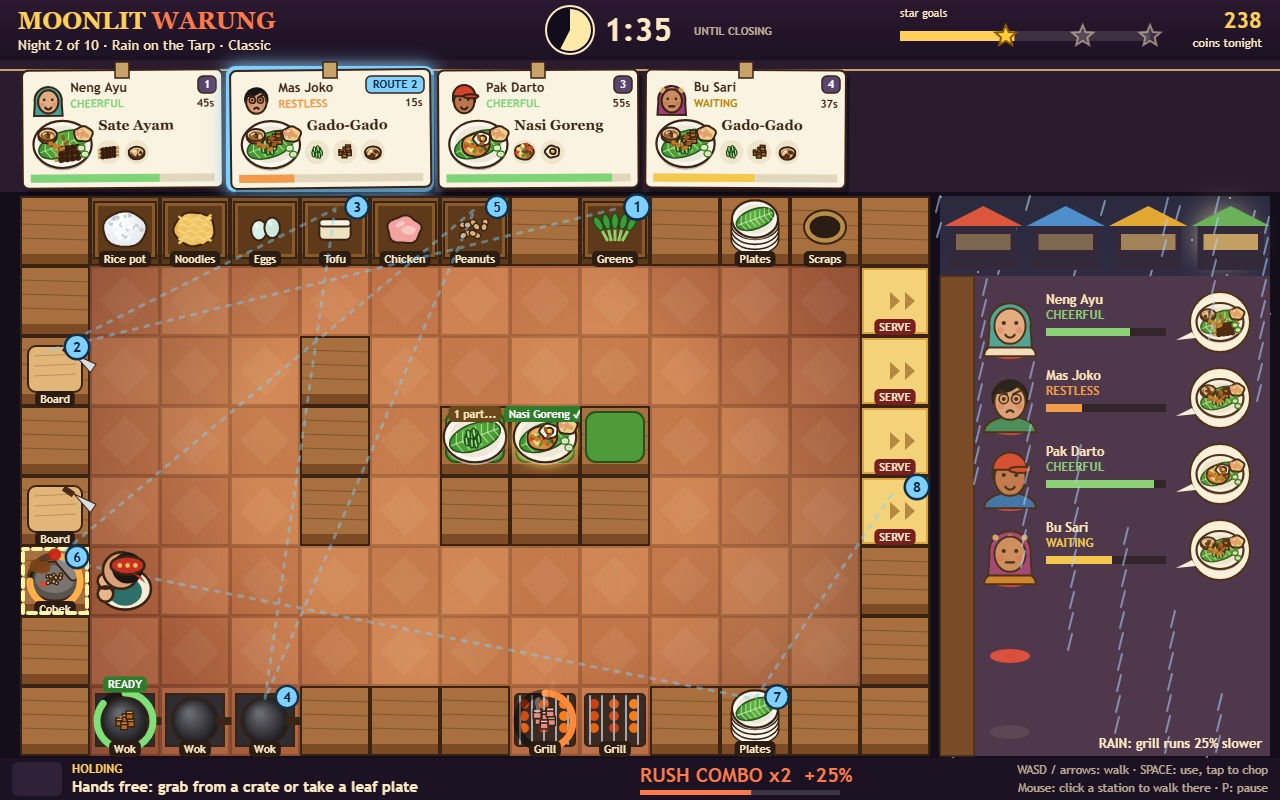
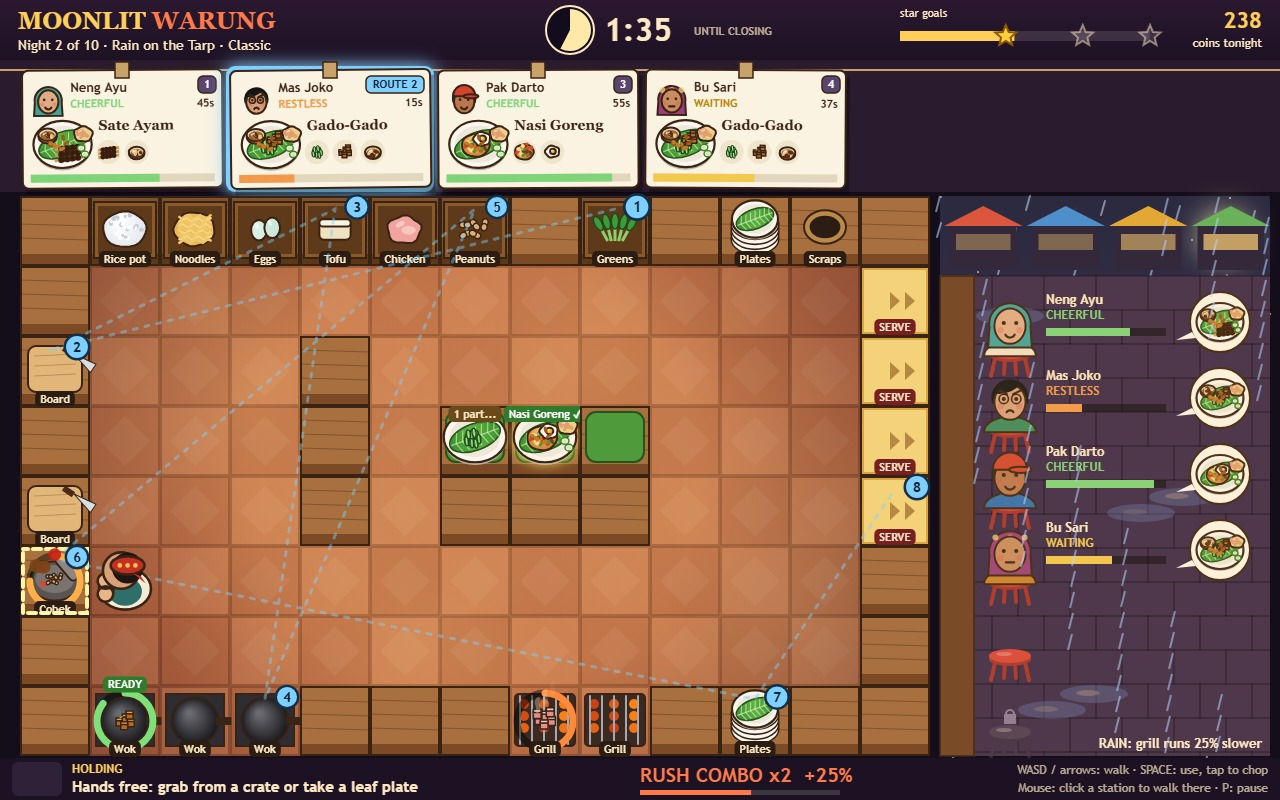
Street side: plastic stools with legs (locked ones padlocked), paving stones, rain puddles that catch the lanterns

diff --git a/game/src/art/street-art.js b/game/src/art/street-art.js
@@ -62,21 +62,51 @@ function farStalls(ctx, x, y, w, t) {
   }
 }
 
+/** Paving stones in staggered rows; on a rain night the low spots hold puddles that catch the lanterns. */
+function drawPaving(ctx, x, y, w, h, t, rain) {
+  ctx.fillStyle = '#3b2a4a'; ctx.fillRect(x, y, w, h);
+  ctx.strokeStyle = 'rgba(20,10,30,0.45)'; ctx.lineWidth = 2;
+  for (let row = 0, py = y; py < y + h; row++, py += 34) {
+    ctx.beginPath(); ctx.moveTo(x, py); ctx.lineTo(x + w, py); ctx.stroke();
+    for (let px = x + (row % 2 ? 26 : 0); px < x + w; px += 52) { ctx.beginPath(); ctx.moveTo(px, py); ctx.lineTo(px, py + 34); ctx.stroke(); }
+  }
+  if (!rain) return;
+  for (let i = 0; i < 5; i++) {
+    const px = x + 70 + ((i * 131) % (w - 110)), py = y + 40 + ((i * 197) % (h - 70));
+    ctx.fillStyle = 'rgba(120,150,220,0.28)'; ctx.beginPath(); ctx.ellipse(px, py, 34, 9, 0, 0, Math.PI * 2); ctx.fill();
+    ctx.fillStyle = `rgba(255,200,120,${0.18 + 0.08 * Math.sin(t * 3 + i)})`; ctx.beginPath(); ctx.ellipse(px - 6, py - 1, 12, 3, 0, 0, Math.PI * 2); ctx.fill();
+  }
+}
+
+/** A plastic warung stool seen from the front: round seat, splayed legs. Locked stools are dim with a padlock. */
+function drawStool(ctx, cx, cy, usable) {
+  const top = usable ? '#d6453a' : '#4b3a55', leg = usable ? '#a8302a' : '#3a2c44';
+  ctx.strokeStyle = leg; ctx.lineWidth = 4; ctx.lineCap = 'round';
+  ctx.beginPath(); ctx.moveTo(cx - 14, cy + 2); ctx.lineTo(cx - 19, cy + 24); ctx.moveTo(cx + 14, cy + 2); ctx.lineTo(cx + 19, cy + 24);
+  ctx.moveTo(cx - 5, cy + 4); ctx.lineTo(cx - 6, cy + 22); ctx.moveTo(cx + 5, cy + 4); ctx.lineTo(cx + 6, cy + 22); ctx.stroke();
+  ctx.lineCap = 'butt';
+  ctx.fillStyle = leg; ctx.beginPath(); ctx.ellipse(cx, cy + 3, 21, 7, 0, 0, Math.PI * 2); ctx.fill();
+  ctx.fillStyle = top; ctx.beginPath(); ctx.ellipse(cx, cy, 21, 7, 0, 0, Math.PI * 2); ctx.fill();
+  ctx.fillStyle = 'rgba(255,255,255,0.25)'; ctx.beginPath(); ctx.ellipse(cx - 6, cy - 2, 8, 2, 0, 0, Math.PI * 2); ctx.fill();
+  if (usable) return;
+  ctx.fillStyle = '#8a7a99'; ctx.fillRect(cx - 6, cy - 18, 12, 10);
+  ctx.strokeStyle = '#8a7a99'; ctx.lineWidth = 2; ctx.beginPath(); ctx.arc(cx, cy - 18, 4, Math.PI, 0); ctx.stroke();
+}
+
 /** The street side: backdrop, the bar counter, and each stool with its guest, mood and order. */
 export function drawStreet(ctx, run, t) {
   const { x, y, w, h } = STREET;
-  drawSky(ctx, x, y, w, h, t, run.night.weather === 'rain');
+  const rain = run.night.weather === 'rain';
+  drawSky(ctx, x, y, w, h, t, rain);
   drawMoon(ctx, x + w - 46, y + 40, 22);
   farStalls(ctx, x, y + 6, w, t);
-  ctx.fillStyle = '#3b2a4a'; ctx.fillRect(x, y + 80, w, h - 80);
+  drawPaving(ctx, x, y + 80, w, h - 80, t, rain);
   ctx.fillStyle = '#6b3f22'; ctx.fillRect(x, y + 80, 34, h - 80);
   ctx.strokeStyle = '#3b2314'; ctx.lineWidth = 2; ctx.strokeRect(x, y + 80, 34, h - 80);
   for (let i = 0; i < 6; i++) {
     const sy = SEAT_Y(i);
     const seat = run.seats[i];
-    const usable = i < run.mods.seats;
-    ctx.fillStyle = usable ? '#d6453a' : '#4b3a55';
-    ctx.beginPath(); ctx.ellipse(x + 70, sy + 34, 20, 7, 0, 0, Math.PI * 2); ctx.fill();
+    drawStool(ctx, x + 70, sy + 34, i < run.mods.seats);
     if (!seat) continue;
     const ticket = run.tickets.find(tk => tk.id === seat.ticket);
     let mood = 2, bob = 0, alpha = 1;
